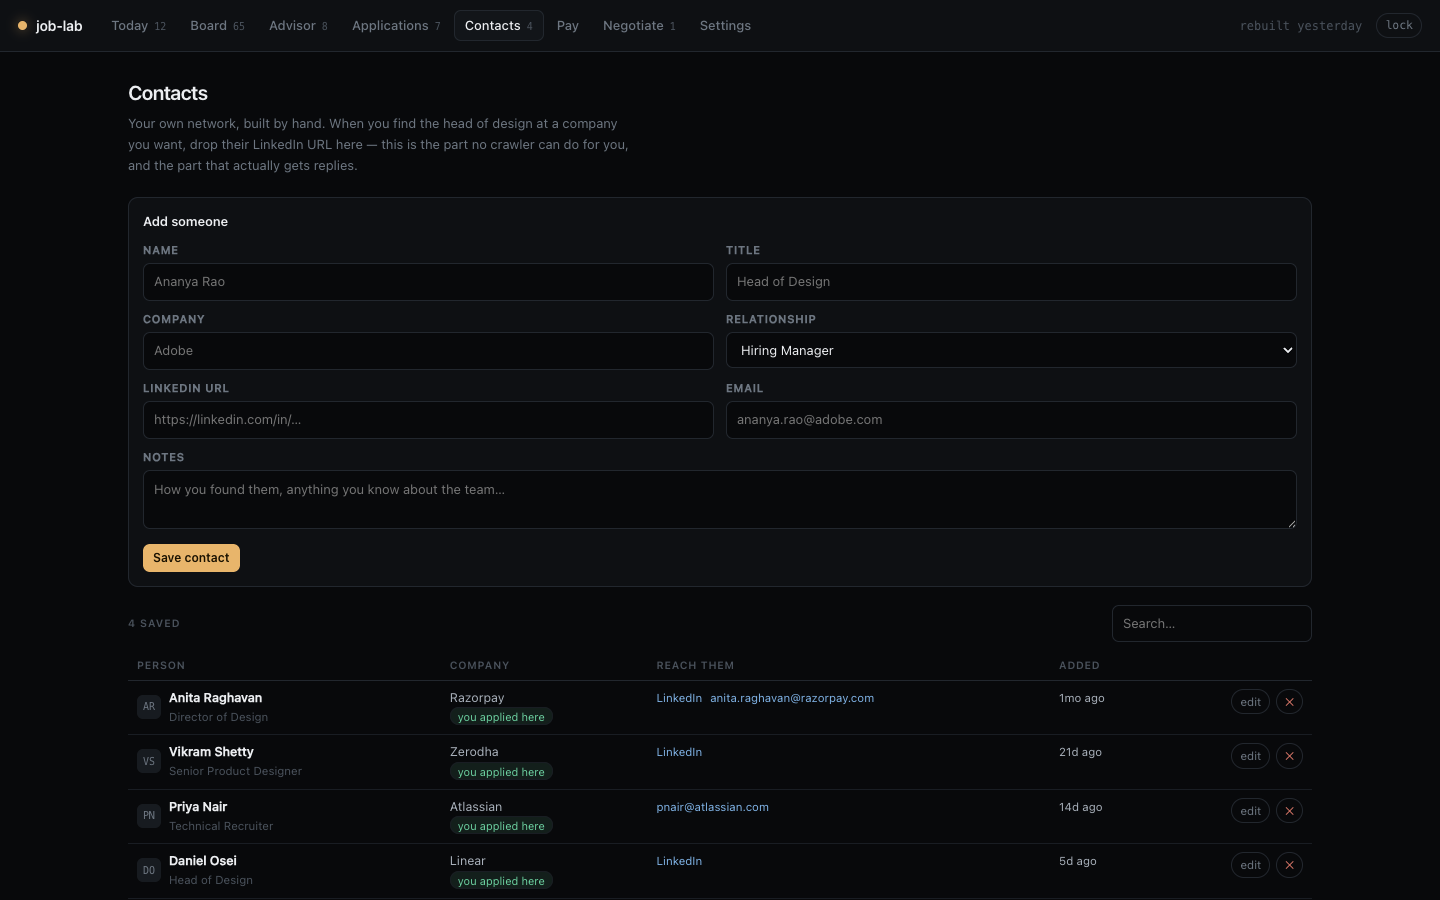
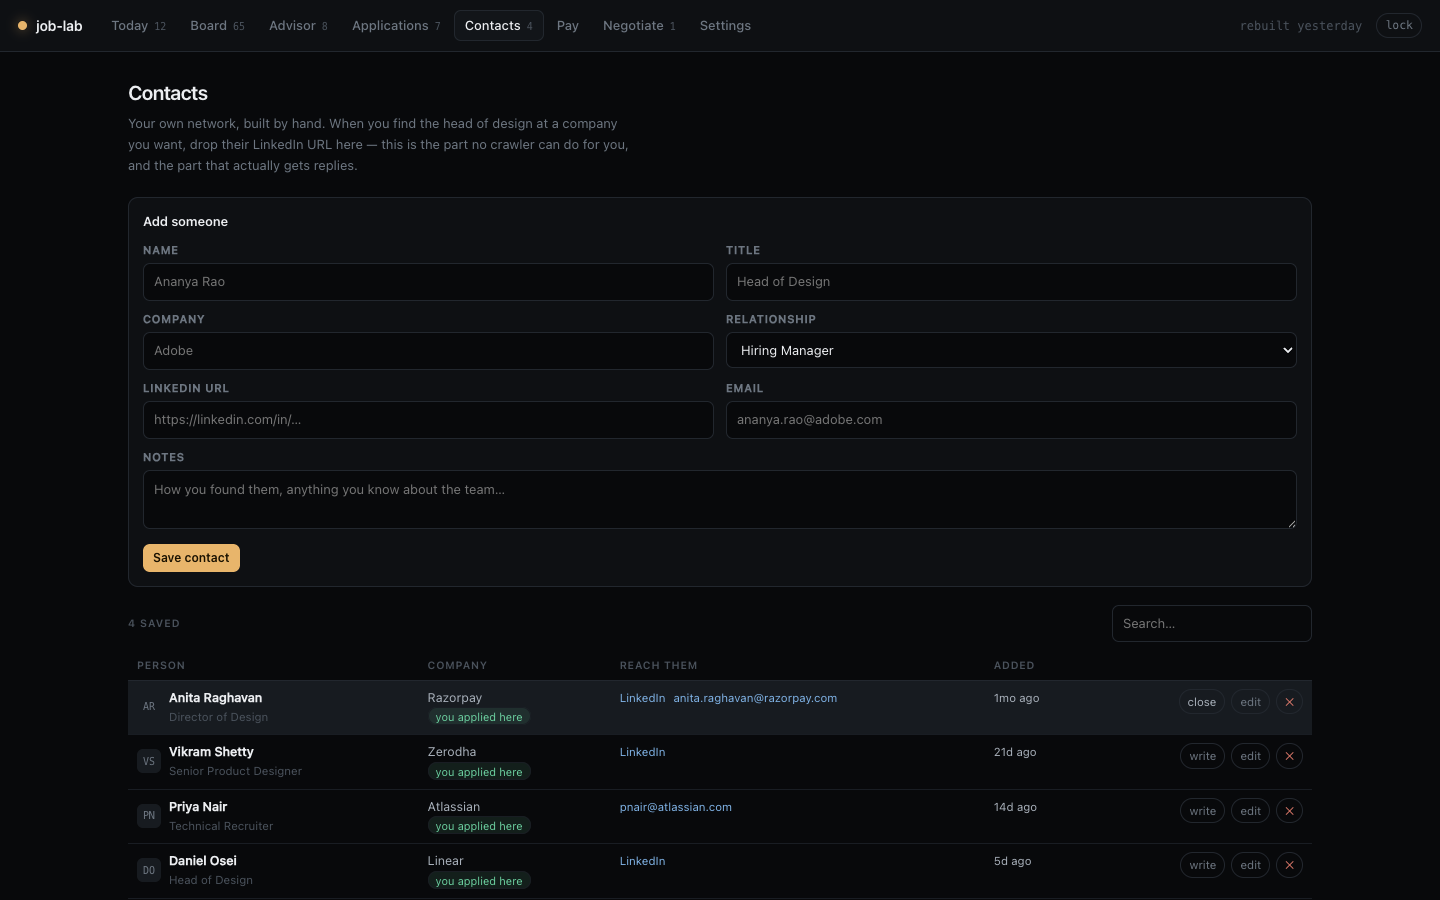
Write to people from the contacts book, in the medium they will read it in
Contacts was a list you could add to and then do nothing with. The drafts
lived on the job posting, so the one place you had a named human was the one
place you could not write to them.

Every contact now has a "write" action. It works out which role you are
chasing at their company - from the tracker first, then the board - and
builds the drafts around it.

More importantly it adds LinkedIn drafts, which are not email with a
different envelope. A connection note is capped at 300 characters, read on
a phone, and arrives with no subject line and no context beyond your
headline. Pasting an email into that produces the message everyone ignores.

So there are four written to the medium: a connection note, a referral ask
for once they have accepted, a request for fifteen minutes that asks about
the work rather than the job, and a note to send after a rejection - the
most under-used message in a job search and the cheapest.

The 300 limit is enforced rather than warned about. The note is built in
descending order of what matters and the first version that fits is the one
you get, so a long company name shortens the sentence instead of silently
failing to send. Copying a draft logs the contact as reached today.

diff --git a/web/src/components/Contacts.tsx b/web/src/components/Contacts.tsx
@@ -1,11 +1,15 @@
 import { useMemo, useState } from "react"
-import type { Application, Contact } from "@/lib/types"
+import type { Application, Contact, Job, Settings } from "@/lib/types"
 import { today, uid } from "@/lib/store"
-import { ago, initials, titleCase } from "@/lib/format"
+import { ago, copy, initials, titleCase } from "@/lib/format"
+import { drafts as emailDrafts, linkedinDrafts, mailto } from "@/lib/email"
 
 interface Props {
   contacts: Contact[]
   applications: Application[]
+  jobs: Job[]
+  settings: Settings
+  idf: Record<string, number>
   onChange: (rows: Contact[]) => void
 }
 
@@ -27,10 +31,38 @@ const BLANK = {
   notes: "",
 }
 
-export function Contacts({ contacts, applications, onChange }: Props) {
+export function Contacts({ contacts, applications, jobs, settings, idf, onChange }: Props) {
   const [form, setForm] = useState(BLANK)
   const [query, setQuery] = useState("")
   const [editing, setEditing] = useState<string | null>(null)
+  const [writingTo, setWritingTo] = useState<string | null>(null)
+  const [draftKey, setDraftKey] = useState<string>("li_connect")
+  const [copied, setCopied] = useState(false)
+
+
+  /* The role you are chasing at their company, so a draft can name it. Falls
+     back to any live posting there, then to nothing — a message with no role in
+     it is still a legitimate thing to send. */
+  function jobFor(contact: Contact): Job | null {
+    const company = contact.company.toLowerCase().trim()
+    const tracked = applications.find(
+      (a) => a.company.toLowerCase().trim() === company && a.job_id,
+    )
+    if (tracked?.job_id) {
+      const found = jobs.find((j) => j.id === tracked.job_id)
+      if (found) return found
+    }
+    const onBoard = jobs.filter((j) => j.company.toLowerCase().trim() === company)
+    if (!onBoard.length) return null
+    return onBoard.sort((a, b) => b.match_score - a.match_score)[0]
+  }
+
+  function draftsFor(contact: Contact) {
+    const job = jobFor(contact)
+    const li = linkedinDrafts(job, settings, idf, contact.name, contact.title)
+    const mail = job ? emailDrafts(job, settings, idf, contact.name.split(/\s+/)[0] || "there") : []
+    return { job, all: [...li, ...mail] }
+  }
 
   const filtered = useMemo(() => {
     const q = query.trim().toLowerCase()
@@ -240,6 +272,16 @@ export function Contacts({ contacts, applications, onChange }: Props) {
                       <div className="row" style={{ gap: 6, justifyContent: "flex-end" }}>
                         <button
                           className="chip"
+                          onClick={() => {
+                            setWritingTo(writingTo === contact.id ? null : contact.id)
+                            setDraftKey("li_connect")
+                            setCopied(false)
+                          }}
+                        >
+                          {writingTo === contact.id ? "close" : "write"}
+                        </button>
+                        <button
+                          className="chip"
                           onClick={() => setEditing(editing === contact.id ? null : contact.id)}
                         >
                           {editing === contact.id ? "done" : "edit"}
@@ -257,6 +299,105 @@ export function Contacts({ contacts, applications, onChange }: Props) {
                 ))}
               </tbody>
             </table>
+
+            {writingTo &&
+              (() => {
+                const contact = contacts.find((c) => c.id === writingTo)
+                if (!contact) return null
+                const { job, all } = draftsFor(contact)
+                const draft = all.find((d) => d.key === draftKey) ?? all[0]
+                if (!draft) return null
+                const over = draft.limit ? draft.body.length - draft.limit : 0
+                return (
+                  <div className="card" style={{ marginTop: 12 }}>
+                    <div className="row-between" style={{ marginBottom: 4 }}>
+                      <h3 style={{ margin: 0 }}>
+                        Writing to {contact.name.split(/\s+/)[0]}
+                        {job ? <span className="dim"> about {job.title}</span> : null}
+                      </h3>
+                      {contact.linkedin_url && (
+                        <a
+                          href={contact.linkedin_url}
+                          target="_blank"
+                          rel="noopener noreferrer"
+                          className="tiny"
+                        >
+                          their profile →
+                        </a>
+                      )}
+                    </div>
+                    {!job && (
+                      <p className="tiny dimmer" style={{ marginTop: 0 }}>
+                        Nothing on the board at {contact.company} right now, so these are written
+                        without a role in them. That is often the better message anyway.
+                      </p>
+                    )}
+
+                    <div className="row wrap" style={{ gap: 6, margin: "8px 0 10px" }}>
+                      {all.map((d) => (
+                        <button
+                          key={d.key}
+                          className={`chip ${d.key === draft.key ? "on" : ""}`}
+                          onClick={() => {
+                            setDraftKey(d.key)
+                            setCopied(false)
+                          }}
+                        >
+                          {d.medium === "linkedin" ? "in · " : "@ · "}
+                          {d.label}
+                        </button>
+                      ))}
+                    </div>
+
+                    <p className="tiny dimmer" style={{ margin: "0 0 8px" }}>
+                      {draft.when}
+                    </p>
+
+                    {draft.subject && (
+                      <div className="field">
+                        <label>Subject</label>
+                        <input readOnly value={draft.subject} />
+                      </div>
+                    )}
+
+                    <textarea readOnly rows={draft.medium === "linkedin" ? 7 : 12} value={draft.body} />
+
+                    <div className="row-between" style={{ marginTop: 8 }}>
+                      <span
+                        className="tiny mono"
+                        style={{ color: over > 0 ? "var(--bad)" : "var(--ink-4)" }}
+                      >
+                        {draft.limit
+                          ? over > 0
+                            ? `${draft.body.length} characters — ${over} over LinkedIn's ${draft.limit} limit`
+                            : `${draft.body.length} of ${draft.limit} characters`
+                          : `${draft.body.length} characters`}
+                      </span>
+                      <div className="row" style={{ gap: 6 }}>
+                        <button
+                          className="chip"
+                          onClick={() => {
+                            copy(draft.body)
+                            setCopied(true)
+                            update(contact.id, { last_contacted: today() })
+                          }}
+                        >
+                          {copied ? "copied, and logged" : "copy"}
+                        </button>
+                        {draft.medium !== "linkedin" && contact.email && (
+                          <a
+                            className="btn btn-sm"
+                            href={mailto(contact.email, draft.subject, draft.body)}
+                            onClick={() => update(contact.id, { last_contacted: today() })}
+                          >
+                            Open in mail
+                          </a>
+                        )}
+                      </div>
+                    </div>
+                  </div>
+                )
+              })()}
 
             {editing && (
               <div className="card" style={{ marginTop: 12 }}>

diff --git a/web/src/lib/email.ts b/web/src/lib/email.ts
@@ -14,6 +14,10 @@ export interface Draft {
   when: string
   subject: string
   body: string
+  /** Where this is meant to be sent, which decides how it should read. */
+  medium?: "email" | "linkedin"
+  /** LinkedIn enforces one; email does not. */
+  limit?: number
 }
 
 /** The two or three most distinctive things this posting asks for. */
@@ -118,6 +122,113 @@ I am still very interested, particularly in ${topics[0] ?? "the direction of the
 If the answer is no, that is genuinely fine and I would appreciate knowing so I can stop checking.
 
 ${signature(me)}`,
+    },
+  ]
+}
+
+/**
+ * LinkedIn is not email with a different envelope.
+ *
+ * A connection note is capped at 300 characters, is read on a phone, and
+ * arrives with no subject line and no context beyond your headline. Pasting an
+ * email into it produces the thing everyone ignores. These are written to the
+ * medium: one specific reason, one small ask, no preamble.
+ */
+export function linkedinDrafts(
+  job: Job | null,
+  me: Settings,
+  idf: Record<string, number>,
+  contactName = "there",
+  contactTitle = "",
+): Draft[] {
+  const who = firstName(me)
+  const topics = job ? hooks(job, idf, 2) : []
+  const focus = topics[0] ?? "the work your team is doing"
+  const years = me.years || 5
+  const company = job?.company ?? "your team"
+  const role = job?.title ?? "design roles"
+  const first = (contactName || "there").split(/\s+/)[0]
+  const leads = /head|director|vp|chief|lead|principal/i.test(contactTitle)
+
+  /* 300 characters is a hard limit, not a guideline: LinkedIn silently refuses
+     to send a longer note. So the note is built in descending order of what
+     matters and the first version that fits is the one you get. */
+  const connect = [
+    `Hi ${first} — I'm applying for the ${role} role at ${company}. ${years} years in product design, mostly ${focus}. Not asking you to do anything with it; I'd just rather the application had a face attached. Work is at ${
+      me.portfolio || "my profile"
+    }.`,
+    `Hi ${first} — I'm applying for the ${role} role at ${company}. ${years} years in product design, mostly ${focus}. Work is at ${
+      me.portfolio || "my profile"
+    }.`,
+    `Hi ${first} — applying for the ${role} role at ${company}. ${years} years in product design. ${
+      me.portfolio || ""
+    }`.trim(),
+    `Hi ${first} — applying for the ${role} role at ${company}. ${years} years in product design.`,
+  ].find((text) => text.length <= 300)
+
+  return [
+    {
+      key: "li_connect",
+      label: "Connection note",
+      when: "300 characters, hard limit. This is the whole first impression.",
+      medium: "linkedin",
+      limit: 300,
+      subject: "",
+      body:
+        connect ??
+        `Hi ${first} — applying for a design role at ${company}. ${years} years in product design.`,
+    },
+    {
+      key: "li_referral",
+      label: "Referral ask",
+      when: "Once they have accepted. Make it small and easy to refuse.",
+      medium: "linkedin",
+      subject: "",
+      body: `Thanks for connecting, ${first}.
+
+Direct version: there's a ${role} opening at ${company}${
+        job?.url ? ` (${job.url})` : ""
+      } and I'm applying either way. If you know the team and think it's a fit, a referral would help a lot. If you don't, or would rather not, that's a completely fine answer and I won't ask again.
+
+${years} years in product design, strongest on ${focus}. Everything's here: ${
+        me.portfolio || "my profile"
+      }.
+
+Either way, thanks for the two minutes.`,
+    },
+    {
+      key: "li_informational",
+      label: "Ask for fifteen minutes",
+      when: leads
+        ? "To someone senior. Ask about the work, not the job — it is a far easier yes."
+        : "When there is no open role, or you want to be known before there is.",
+      medium: "linkedin",
+      subject: "",
+      body: `Hi ${first},
+
+I've been following ${company}${
+        topics.length ? ` and the way the team is approaching ${focus}` : ""
+      }. I'm a product designer, ${years} years in, and I'd like to understand how design actually works there before I decide whether to apply.
+
+Would you be open to fifteen minutes? I'll come with three specific questions and I'll keep to the fifteen.
+
+If it's not a good time, no reply needed at all.
+
+${who}`,
+    },
+    {
+      key: "li_after_rejection",
+      label: "After a no",
+      when: "The most under-used message in a job search. Costs nothing, pays later.",
+      medium: "linkedin",
+      subject: "",
+      body: `Hi ${first},
+
+I didn't get the ${role} role, which is fair enough. Thank you for the time the team spent on it.
+
+If anything opens later that you think fits better, I'd genuinely like to hear about it. And if there was one thing that would have made the difference, I'd take that feedback seriously — no obligation to give it.
+
+${who}`,
     },
   ]
 }

diff --git a/web/src/App.tsx b/web/src/App.tsx
@@ -374,7 +374,14 @@ export default function App() {
         )}
 
         {view === "contacts" && (
-          <Contacts contacts={contacts} onChange={setContacts} applications={applications} />
+          <Contacts
+            contacts={contacts}
+            onChange={setContacts}
+            applications={applications}
+            jobs={bundle.data.jobs}
+            settings={settings}
+            idf={bundle.idf}
+          />
         )}
 
         {view === "pay" && (
